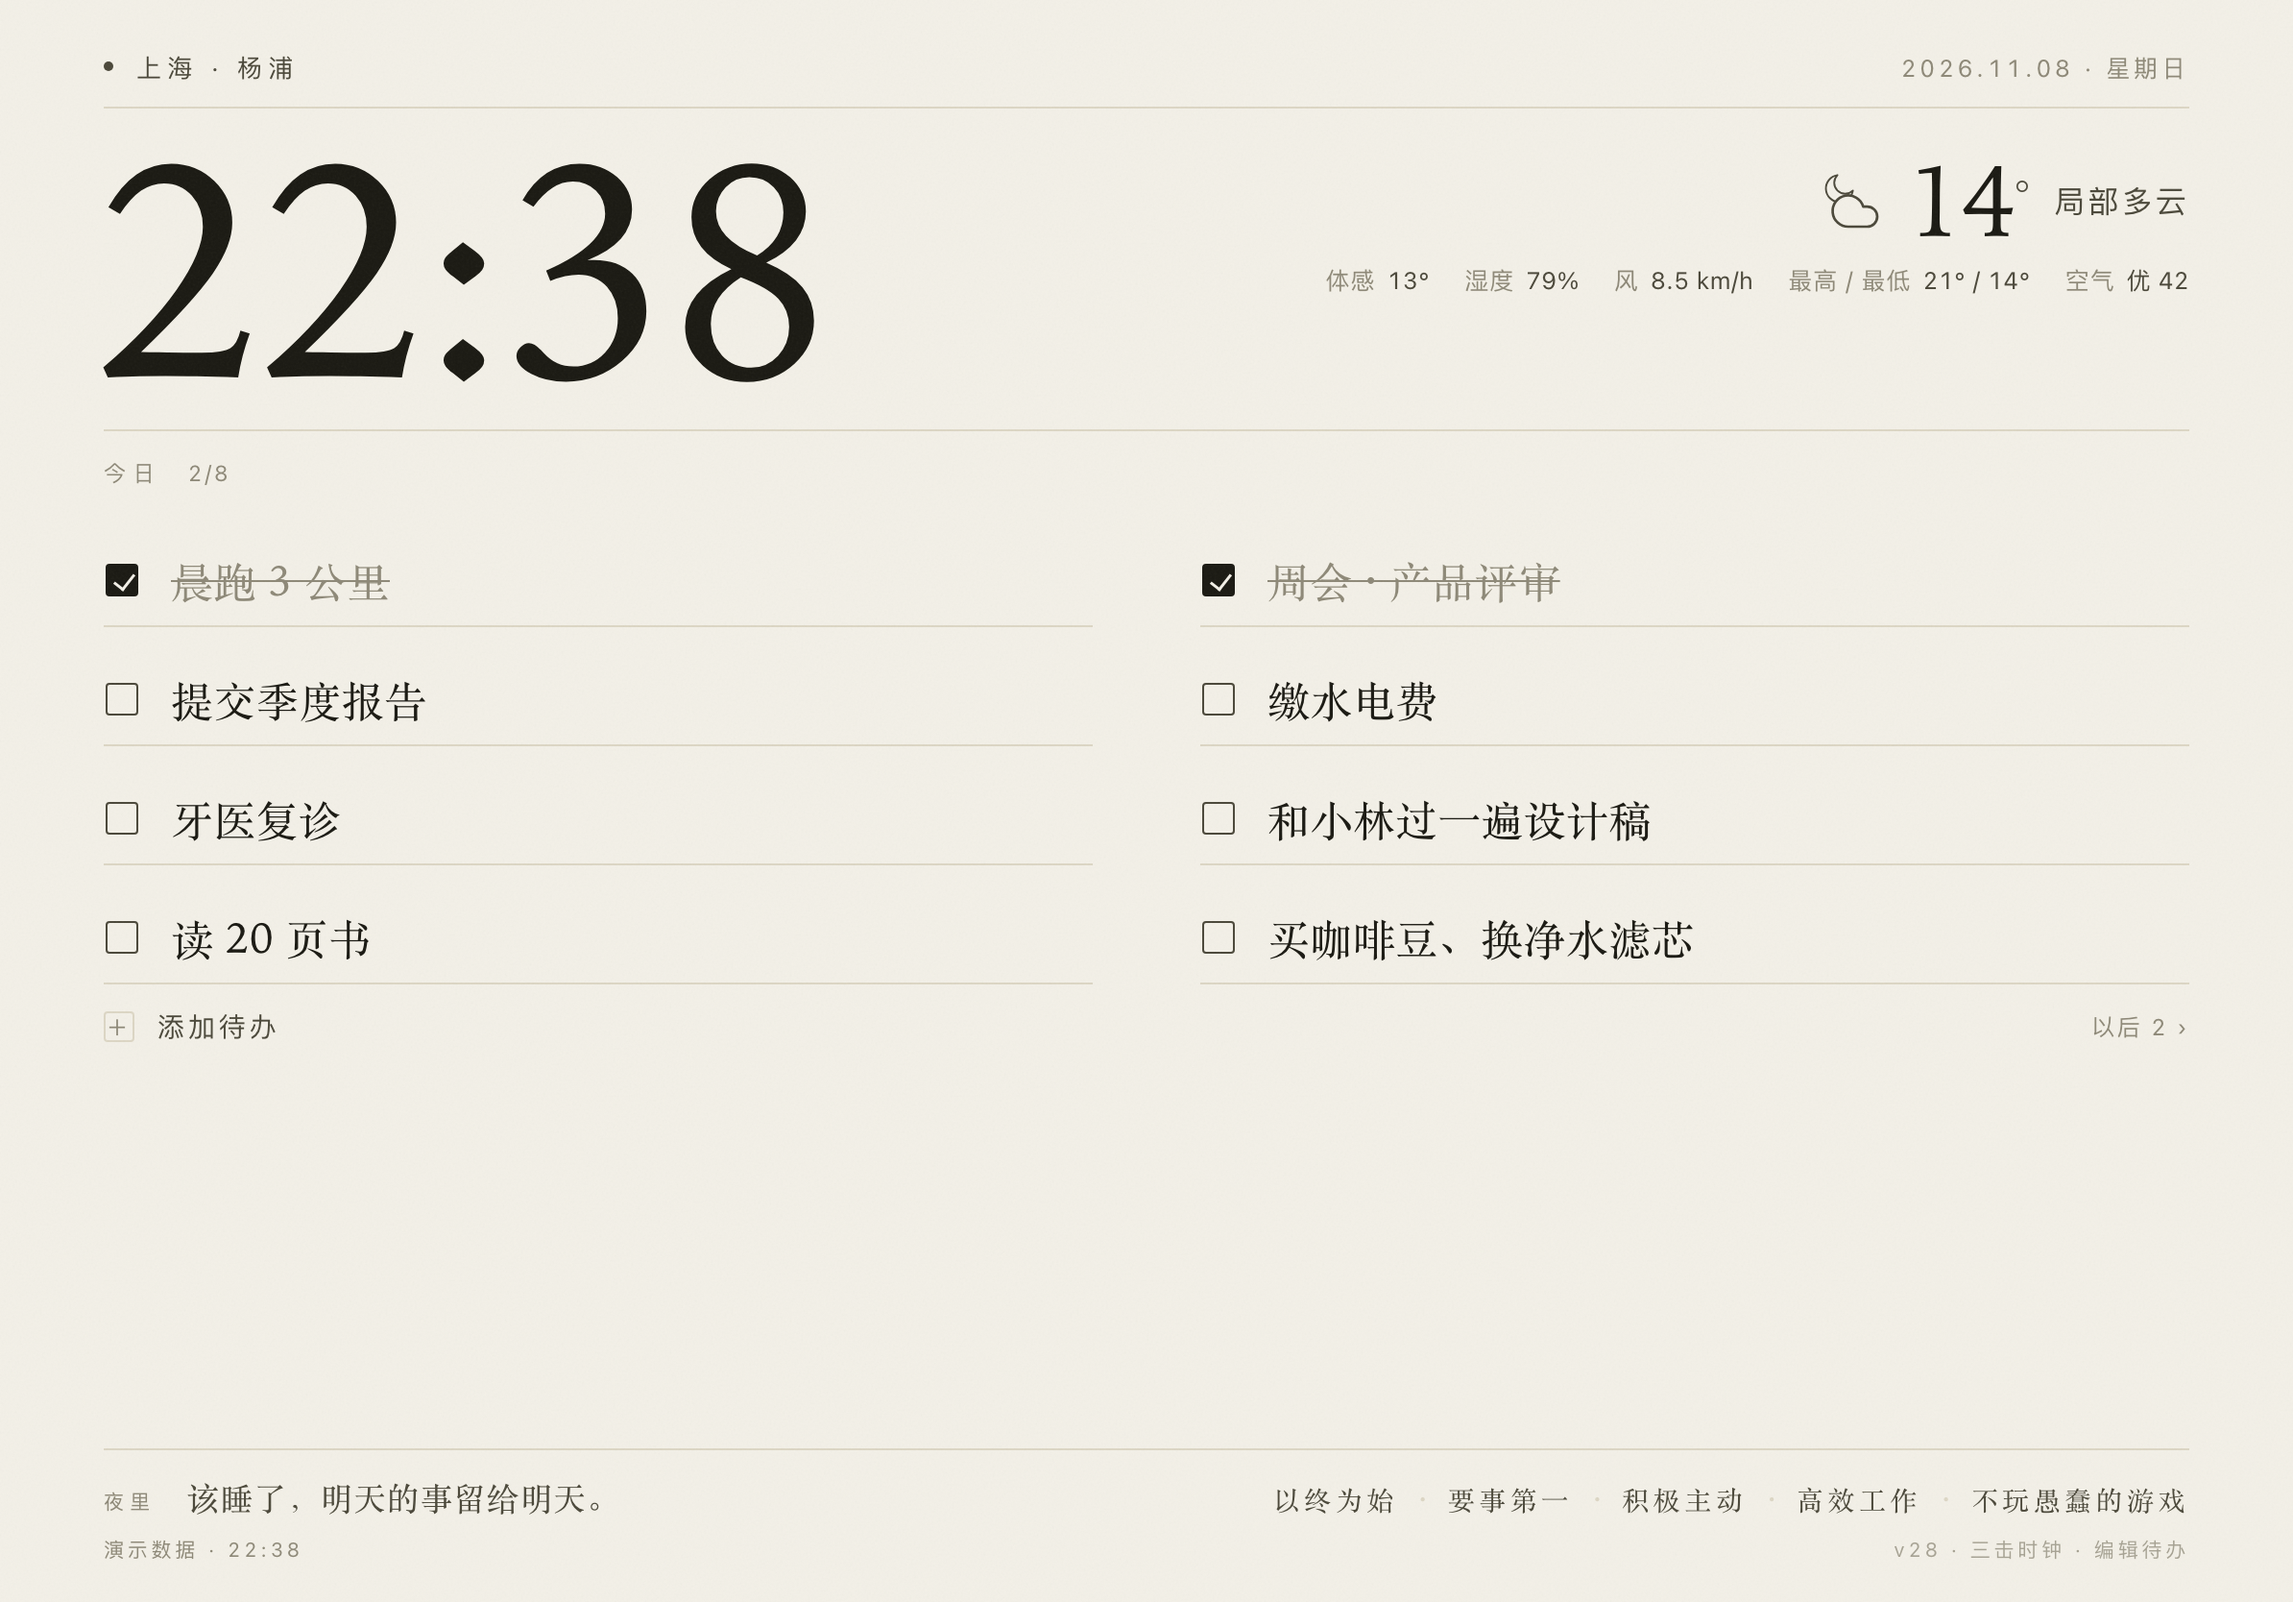
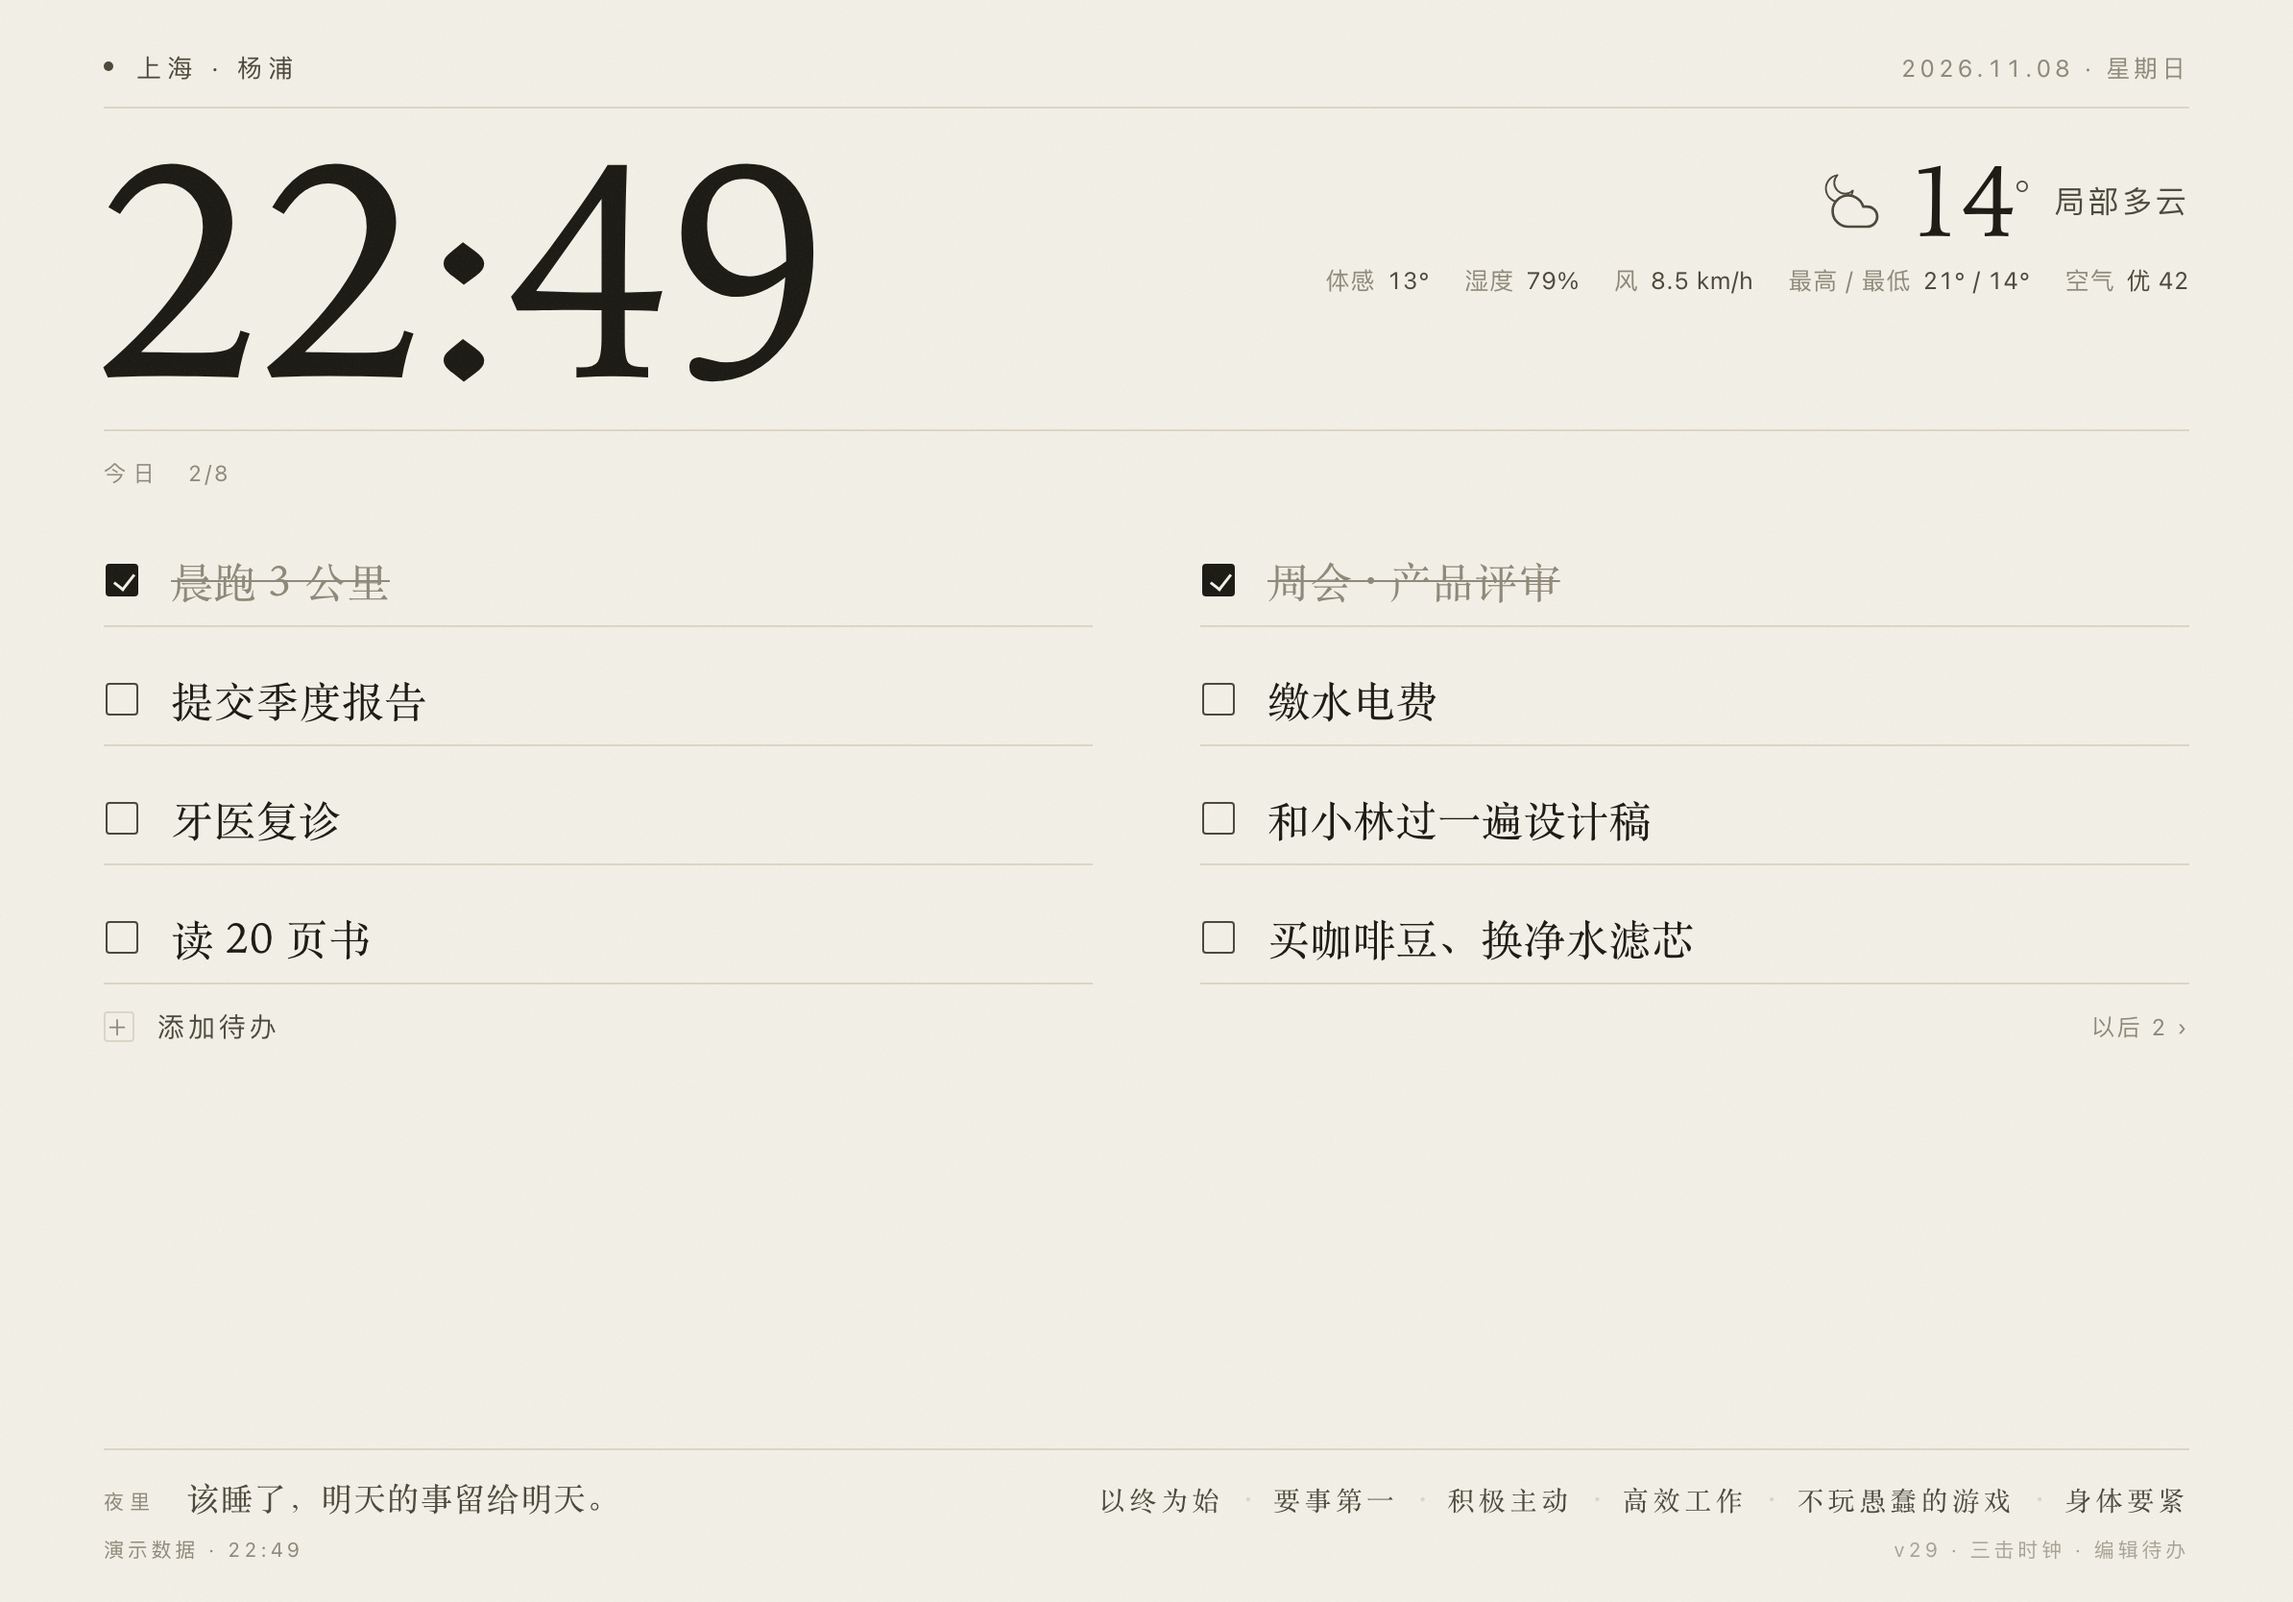
原则补第六条：身体要紧（v29）

diff --git a/index.html b/index.html
@@ -682,7 +682,7 @@
     },
 
     // 底部右侧每天轮换的一句原则
-    mottos: ["以终为始", "要事第一", "积极主动", "高效工作", "不玩愚蠢的游戏"],
+    mottos: ["以终为始", "要事第一", "积极主动", "高效工作", "不玩愚蠢的游戏", "身体要紧"],
 
     display: {
       nightMode: "dim",     // "dim" 暗纸 / "invert" 反色 / "off" 不切换
@@ -727,7 +727,7 @@
     ]
   };
 
-  const BUILD = "v28";   // 改版时 +1，页脚可见，用来确认主屏 App 拿到的是哪一版
+  const BUILD = "v29";   // 改版时 +1，页脚可见，用来确认主屏 App 拿到的是哪一版
 
   const params = new URLSearchParams(location.search);
   const DEMO_MODE = params.has("demo");

diff --git a/README.md b/README.md
@@ -177,7 +177,7 @@ location: { name: "上海 · 徐汇", lat: 31.1884, lon: 121.4336, tz: "Asia/Sha
 | 晚上 | 17:00–22:00 | 晚饭吃七分饱，夜里睡得更沉。 |
 | 夜里 | 22:00–05:00 | 该睡了，明天的事留给明天。 |
 
-底部那行字的右端并排显示几条**原则**（以终为始 · 要事第一 · 积极主动 · 高效工作 · 不玩愚蠢的游戏），改 `CONFIG.mottos` 数组即可增减。
+底部那行字的右端并排显示几条**原则**（以终为始 · 要事第一 · 积极主动 · 高效工作 · 不玩愚蠢的游戏 · 身体要紧），改 `CONFIG.mottos` 数组即可增减。
 
 每个时段**前半程显示时段专属文案，后半程显示通用池**，各占一半时间：
 
